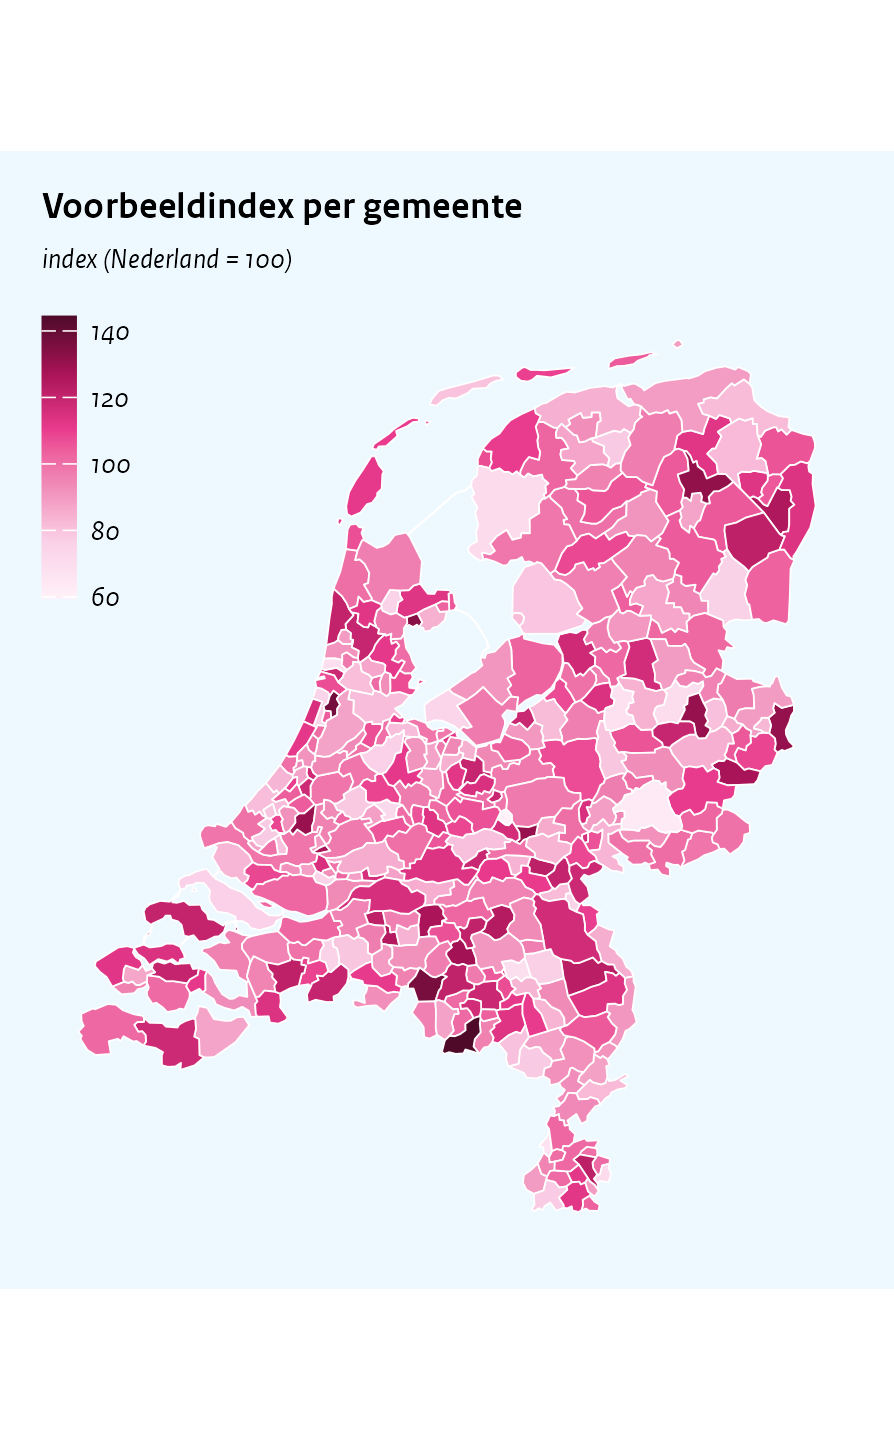
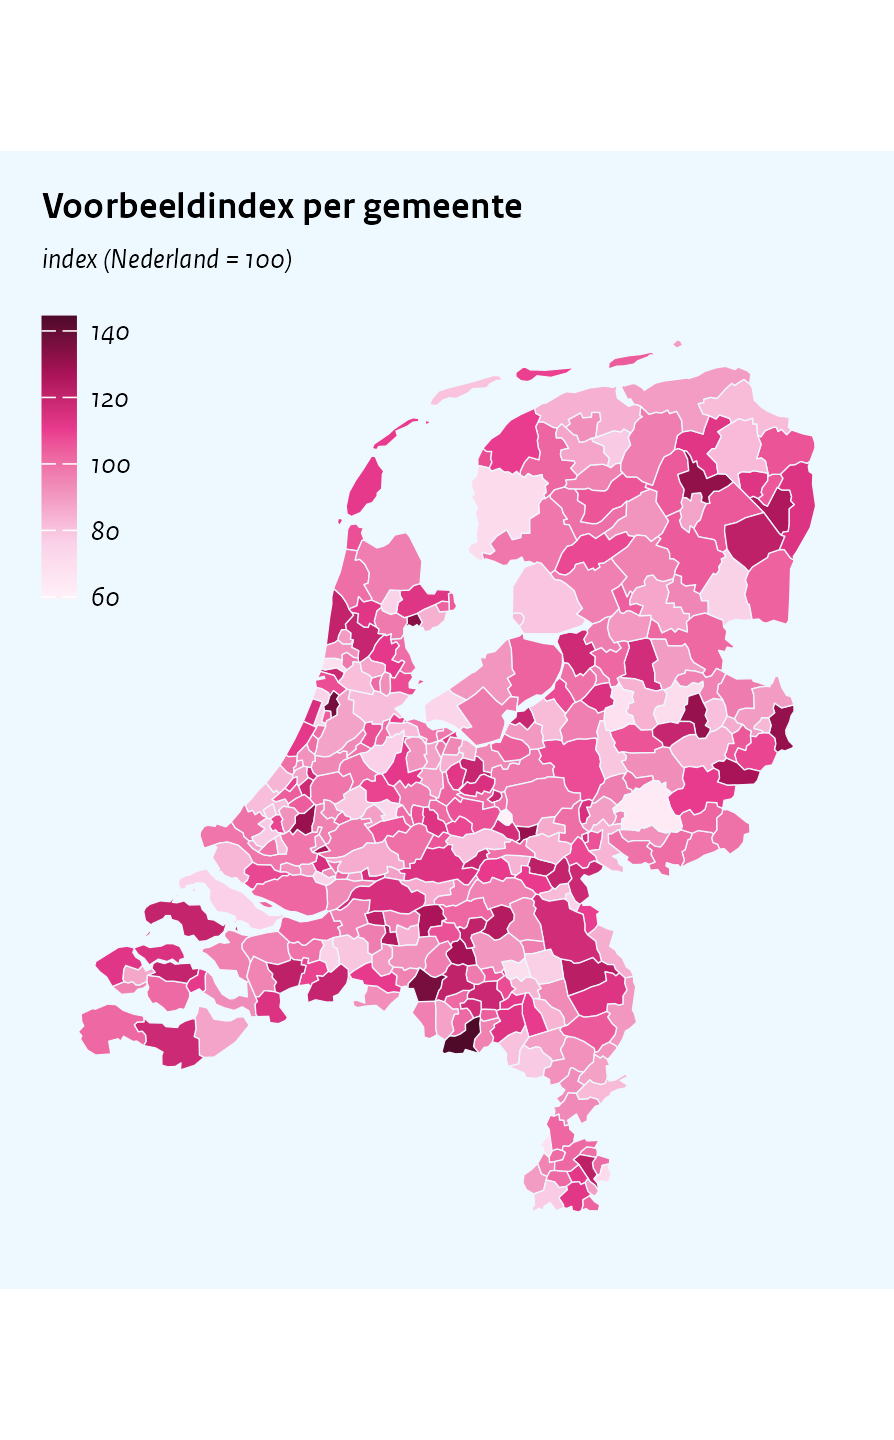
Map polish: softer background seams, tighter title, one-line example
Follow-up tweaks on the map fixes:

- Borders back to the CPB background colour (soft seam) at
  border_linewidth 0.15 (25% thinner than 0.2). On a classed or
  continuous fill neighbouring classes already differ, so a soft seam
  reads fine; pass border_colour = "white" for more contrast on a
  two-class discrete map.
- Maps no longer reserve the blank subtitle line, so the map sits
  directly under the title -- the gap under a two-line title is no
  longer oversized. A subtitle still shows when given (continuous
  maps).
- The classed gemeente example uses a one-line title (it fits); the
  two-line-title demonstration moves to the province example.

Tests updated for the background/0.15 defaults; 398 pass; 25/25 smoke
figures render; doc/ regenerated clean; R CMD check clean.

Claude-Session: https://claude.ai/code/session_01KyuF92FaLCz2M7MYNSrMyp

diff --git a/doc/maps.md b/doc/maps.md
@@ -11,8 +11,8 @@ set.seed(42)
 `cpb_map()` draws a value per Dutch municipality, COROP region or
 province on bundled generalised CBS/Kadaster boundaries (2025, via
 cartomap), so no geo packages or downloads are needed. Regions are
-separated by thin white seams, and the legend sits inside the panel at
-top-left – in the empty North Sea corner of the country.
+separated by thin background-colour seams, and the legend sits inside
+the panel at top-left – in the empty North Sea corner of the country.
 
 # Classed maps
 
@@ -33,7 +33,7 @@ gemeenten <- tibble(code = unique(cpb_nl_geo("gemeente")$code)) |>
 
 cpb_map(gemeenten, region = code, value = klasse,
   palette = "blues",
-  title   = "Aandeel huishoudens\nmet zonnepanelen",
+  title   = "Aandeel huishoudens met zonnepanelen",
   filllab = "aandeel")
 ```
 
@@ -42,9 +42,9 @@ cpb_map(gemeenten, region = code, value = klasse,
 The map fills the half-page width (`page = "half"` in `save_cpb()`);
 because the Netherlands is taller than it is wide, a map figure needs a
 taller canvas than a chart – here `fig.height` is set so the map is not
-squeezed. The title is broken over two lines with `"\n"`: a single-line
-title that runs wider than the panel triggers a warning from
-`save_cpb()`, which suggests exactly this.
+squeezed. A title that runs wider than the panel triggers a warning from
+`save_cpb()`, which suggests breaking it over two lines with `"\n"` (see
+the province example below).
 
 `cpb_cut()` is a house-styled wrapper around `cut()`: give it the
 `breaks` (including the outer bounds, `Inf` for an open top class) and a
@@ -94,12 +94,13 @@ cpb_map(provincies, region = naam, value = klasse, level = "provincie",
 
 # Styling and raw boundaries
 
-The border seams are controlled with `border_colour` (default `"white"`;
-pass `cpb_tokens()$bg` for near-seamless regions) and `border_linewidth`
-(default `0.2`). The legend defaults to `legend = "topleft"` inside the
-panel; pass `legend = "bottom"` for the flush bottom-left legend of the
-other wrappers, or `legend = "none"`. `reverse` flips the sequential
-gradient and `na_fill` overrides the missing-value colour.
+The border seams are controlled with `border_colour` (default the CPB
+background colour; pass `"white"` for more contrast, e.g. on a two-class
+map) and `border_linewidth` (default `0.15`). The legend defaults to
+`legend = "topleft"` inside the panel; pass `legend = "bottom"` for the
+flush bottom-left legend of the other wrappers, or `legend = "none"`.
+`reverse` flips the sequential gradient and `na_fill` overrides the
+missing-value colour.
 
 For anything the wrapper does not cover, the raw boundary tables are
 available through `cpb_nl_geo(level)`: one row per polygon vertex with